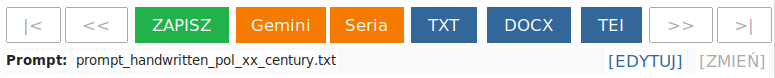
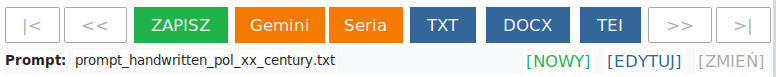
poprawki, tworzenie nowego promptu (z szablonem)

Changed region(s): [[0.0, 0.0, 1.0, 1.0], [0.0, 0.7013, 0.4335, 0.8831]]

diff --git a/src/scan_transcript_manager.py b/src/scan_transcript_manager.py
@@ -292,6 +292,7 @@ class ManuscriptEditor:
                    bootstyle="outline-secondary", width=3, padding=2)
         self.btn_bgfont.pack(side=LEFT, padx=2)
 
+        # język interfejsu
         self.lang_sel = ttk.Combobox(font_tools, values=self.languages, width=5,
                                      state="readonly")
         self.lang_sel.set(self.current_lang)
@@ -302,7 +303,7 @@ class ManuscriptEditor:
         self.header_row2 = ttk.Frame(self.editor_frame)
         self.header_row2.pack(fill=X, padx=5, pady=2)
 
-        # lewa strona wiersza 2: analiza treści
+        # lewa strona wiersza 2: analiza treści, NER, BOX itp.
         ai_tools = ttk.Frame(self.header_row2)
         ai_tools.pack(side=LEFT)
 
@@ -473,6 +474,12 @@ class ManuscriptEditor:
                                         bootstyle="link-info", cursor="hand2", padding=0)
         self.btn_edit_prompt.pack(side=RIGHT, padx=5)
 
+        # przycisk nowego promptu
+        self.btn_new_prompt = ttk.Button(self.prompt_status_frame, text=self.t["btn_new_prompt"],
+                                        command=self.create_new_prompt,
+                                        bootstyle="link-success", cursor="hand2", padding=0)
+        self.btn_new_prompt.pack(side=RIGHT, padx=5)
+
         # skróty klawiszowe
         self.root.bind("<Control-s>", lambda e: self.save_current_text())
         self.root.bind("<Alt-Left>", lambda e: self.prev_file())
@@ -522,8 +529,62 @@ class ManuscriptEditor:
         self.btn_smfont_tooltip = ToolTip(self.btn_smfont, self.t["tt_btn_smfont"])
         self.btn_search_tooltip = ToolTip(self.btn_search, self.t["tt_btn_search"])
         self.btn_cancelsearch_tooltip = ToolTip(self.btn_cancelsearch, self.t["tt_btn_cancelsearch"])
+        self.btn_new_prompt_tooltip = ToolTip(self.btn_new_prompt, self.t["tt_btn_new_prompt"])
 
         self.select_folder()
+
+
+    def create_new_prompt(self):
+        """ nowy plik promptu z szablonem """
+        prompt_dir = Path('..') / 'prompt'
+        if not prompt_dir.exists():
+            prompt_dir.mkdir(parents=True, exist_ok=True)
+
+        # wywołanie okna zapisu pliku
+        new_filepath = filedialog.asksaveasfilename(
+            title=self.t["select_new_prompt_title"],
+            initialdir=prompt_dir,
+            defaultextension=".txt",
+            filetypes=[(self.t["file_type_text"], "*.txt")],
+            parent=self.root
+        )
+
+        if not new_filepath:
+            return
+
+        # szablon promptu
+        template = (
+            "ROLA: Jesteś ekspertem w dziedzinie paleografii i historii. \n"
+            "Twoim zadaniem jest wykonanie precyzyjnej transkrypcji załączonego skanu.\n\n"
+            "KONTEKST:\n"
+            "Rodzaj dokumentu: \n"
+            "Data: \n"
+            "Język: \n\n"
+            "ZASADY TRANSKRYPCJI:\n"
+            "Wierność absolutna: transkrybuj tekst dokładnie tak, jak jest napisany (wiersz po wierszu, litera po literze).\n"
+            "Oryginalna pisownia: Bezwzględnie zachowaj oryginalną pisownię, gramatykę i interpunkcję, nawet jeśli wydają się błędne lub archaiczne. NIE POPRAWIAJ interpunkcji (np. nie dodawaj brakujących przecinków). NIE ROZWIJAJ skrótów.\n"
+            "Podział wierszy: Zachowaj dokładny podział na wiersze (linie) z oryginału. Każdy nowy wiersz w rękopisie to nowy wiersz w Twojej odpowiedzi.\n\n"
+            "ZARZĄDZANIE NIEPEWNOŚCIĄ:\n"
+            "Jeśli fragment (słowo lub litera) jest całkowicie nieczytelny (plama, zniszczenie), oznacz go jako: [nieczytelne].\n"
+            "Jeśli odczyt jest wątpliwy, ale masz przypuszczenie, zapisz je i dodaj znak zapytania w nawiasie, np.: [słowo?] lub słow[o?].\n"
+            "Jeśli w tekście występuje skreślenie, oznacz je jako: [skreślenie].\n\n"
+            "WSKAZÓWKI:\n"
+            "Zwróć tylko odczytany tekst, bez dodatkowych objaśnień i komentarzy.\n\n"
+            "ZADANIE: Rozpocznij transkrypcję."
+        )
+
+        try:
+            # zapis szablonu do nowego pliku
+            with open(new_filepath, 'w', encoding='utf-8') as f:
+                f.write(template)
+
+            # załadowanie nowo utworzonego promptu jako aktywny
+            if self.load_prompt_content(new_filepath):
+                # otwarcie okna edycji, aby użytkownik mógł dostosować szablon
+                self.edit_current_prompt()
+
+        except Exception as e:
+            messagebox.showerror(self.t["msg_error_title"], self.t["msg_prompt_create_error"] + f": {e}")
 
 
     def start_verification(self):
@@ -816,6 +877,7 @@ Pamiętaj o zasadach oznaczania niepewności:
         self.btn_seria.config(text=self.t["btn_batch"])
         self.btn_prompt_change.config(text=self.t["btn_prompt"])
         self.btn_edit_prompt.config(text=self.t["btn_edit_prompt"])
+        self.btn_new_prompt.config(text=self.t["btn_new_prompt"])
 
         self.refresh_tooltips()
 
@@ -845,6 +907,7 @@ Pamiętaj o zasadach oznaczania niepewności:
         self.btn_smfont_tooltip.update_text(self.t["tt_btn_smfont"])
         self.btn_search_tooltip.update_text(self.t["tt_btn_search"])
         self.btn_cancelsearch_tooltip.update_text(self.t["tt_btn_cancelsearch"])
+        self.btn_new_prompt_tooltip.update_text(self.t["tt_btn_new_prompt"])
 
 
     def show_usage_log(self):
@@ -2204,6 +2267,9 @@ Tekst:
             filename = os.path.basename(filepath)
             self.prompt_filename_var.set(f"{filename}")
             self.current_prompt_path = filepath
+            self.default_prompt = filename
+            self.save_config()
+
             return True
         except Exception as e:
             messagebox.showerror(self.t["msg_load_prompt_error_title"],
@@ -2296,6 +2362,10 @@ Tekst:
         self.save_current_text(silent=True)
         if self.current_index != 0:
             self.current_index = 0
+
+            if self.is_reading_audio:
+                self.stop_reading()
+
             self.load_pair(self.current_index)
 
 
@@ -2307,6 +2377,10 @@ Tekst:
         self.save_current_text(silent=True)
         if self.current_index < len(self.file_pairs) - 1:
             self.current_index += 1
+
+            if self.is_reading_audio:
+                self.stop_reading()
+
             self.load_pair(self.current_index)
 
 
@@ -2318,6 +2392,10 @@ Tekst:
         self.save_current_text(silent=True)
         if self.current_index > 0:
             self.current_index -= 1
+
+            if self.is_reading_audio:
+                self.stop_reading()
+
             self.load_pair(self.current_index)
 
 
@@ -2329,6 +2407,10 @@ Tekst:
         self.save_current_text(silent=True)
         if self.current_index < len(self.file_pairs) - 1:
             self.current_index = len(self.file_pairs) - 1
+
+            if self.is_reading_audio:
+                self.stop_reading()
+
             self.load_pair(self.current_index)
 
 

diff --git a/README.md b/README.md
@@ -57,7 +57,7 @@ List of buttons:
 
 ![Screen](/doc/toolbar.png)
 
-Below the list of buttons there is information with the name of the currently set prompt file, the buttons on the right allows you to change the prompt or edit prompt.
+Below the list of buttons there is information with the name of the currently set prompt file, the buttons on the right allows you to change the prompt, create new or edit an existing prompt. When creating a new prompt, the application suggests a template.
 
 If no transcription file exists for the current file, an empty file will be automatically created. Transcription files can be edited manually. In addition to saving via the 'SAVE' button, files are automatically saved when moving to the next/previous file and when exiting the application.
 
